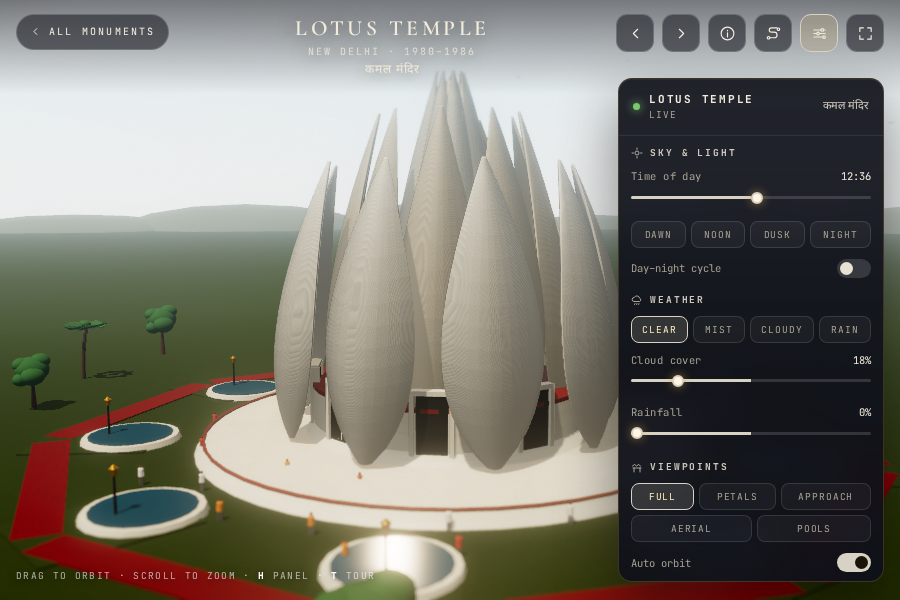
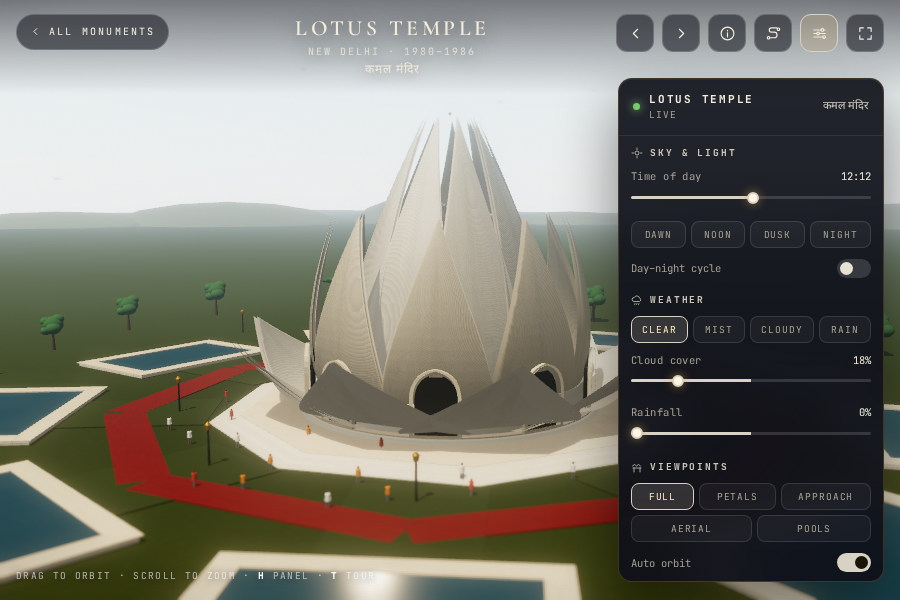
Lotus: the entrance leaves are canopies, not scythes
The outer ring was nine narrow blades splaying over the plinth like claws. In
the building they are wide shallow canopies that arch out from the base and
form the nine entrance portals.

Widened from 6.6 to 9.6 half-width, pulled in from a 33.9 m reach to 26, raised
from 7.8 to 9.4 m and given a much flatter keel (0.55 against 1.3). The bud
above keeps the deeper keel, so the inner leaves still read as folded shells.

The building now reads as a lotus with a canopy base and a closed bud. What is
still wrong: the undersides of the canopies read grey because the shell is
double-sided and the back face is in shadow, and the pools sit as slabs on the
grass rather than at the plinth edge.

diff --git a/monuments/lotus-temple.html b/monuments/lotus-temple.html
@@ -8,8 +8,8 @@
 <meta name="theme-color" content="#d8d2c4">
 <meta name="author" content="Dr Sohil Momin">
 <link rel="icon" href="../assets/img/favicon.svg" type="image/svg+xml">
-<link rel="stylesheet" href="../assets/css/fonts.css?v=85c1bec81e">
-<link rel="stylesheet" href="../assets/css/monument.css?v=85c1bec81e">
+<link rel="stylesheet" href="../assets/css/fonts.css?v=905d8e313b">
+<link rel="stylesheet" href="../assets/css/monument.css?v=905d8e313b">
 <meta property="og:type" content="website">
 <meta property="og:title" content="Lotus Temple — 3D miniature · INDIA">
 <meta property="og:description" content="Twenty-seven marble petals closed around a silent hall: the Bahá’í House of Worship, open to every faith.">
@@ -31,11 +31,11 @@
 <div id="app"></div>
 <noscript><div class="noscript">This page renders Lotus Temple as a live 3D model and needs JavaScript and WebGL. You can still read about the monument on <a href="https://en.wikipedia.org/wiki/Lotus_Temple">Wikipedia</a>.</div></noscript>
 
-<script src="../assets/js/index-data.js?v=85c1bec81e"></script>
+<script src="../assets/js/index-data.js?v=905d8e313b"></script>
 <script>window.MONUMENT_DATA = {"name": "Lotus Temple", "deva": "कमल मंदिर", "place": "New Delhi", "state": "Delhi", "era": "Bahá’í · 1980–1986", "period": "1980–1986", "style": "Expressionist, lotus form", "unesco": "—", "wikipedia": "https://en.wikipedia.org/wiki/Lotus_Temple", "history": ["The Lotus Temple is a Bahá’í House of Worship on the eastern edge of New Delhi, completed in 1986. It was designed by the Iranian-Canadian architect Fariborz Sahba, who shaped the building as a lotus of twenty-seven marble petals: nine in the outer ring, nine in the middle and nine closing over the hall.", "The petals are clad in white marble and rise from a plinth set in 26 acres of gardens, with nine pools and nine paths leading in. The hall beneath them seats about 1,300 people and has no images, no altar and no pulpit: Bahá’í houses of worship are open to every faith and every person, and the only sound inside is the reading of scriptures.", "It draws millions of visitors a year and has won a long list of architectural awards. At dusk the petals are lit from below, and the whole building reads as a flower opening over the gardens."], "facts": [{"k": "Completed", "v": "1986"}, {"k": "Architect", "v": "Fariborz Sahba"}, {"k": "Petals", "v": "27, in three rings"}, {"k": "Height", "v": "34.3 m"}, {"k": "Hall capacity", "v": "About 1,300"}, {"k": "Grounds", "v": "26 acres of gardens"}], "links": [{"label": "Wikipedia", "href": "https://en.wikipedia.org/wiki/Lotus_Temple"}, {"label": "Bahá’í Houses of Worship", "href": "https://www.bahai.org/action/devotional-life/houses-worship"}], "image": {"file": "LotusDelhi.jpg", "artist": "Vandelizer", "license": "CC BY 2.0", "licenseUrl": "https://creativecommons.org/licenses/by/2.0", "page": "https://commons.wikimedia.org/wiki/File:LotusDelhi.jpg", "src": "assets/img/lotus-temple.jpg"}};</script>
 <script type="module">
-  import { boot } from '../assets/js/monument-engine.js?v=85c1bec81e';
-  import monument from '../assets/js/monuments/lotus-temple.js?v=85c1bec81e';
+  import { boot } from '../assets/js/monument-engine.js?v=905d8e313b';
+  import monument from '../assets/js/monuments/lotus-temple.js?v=905d8e313b';
   boot(monument);
 </script>
 </body>

diff --git a/assets/js/monuments/lotus-temple.js b/assets/js/monuments/lotus-temple.js
@@ -163,7 +163,7 @@ export default {
        outer leaves 22.5 m, turning back in;
        inner leaves 33.6 m, closing over the hall. */
     const RINGS = [
-      { H: 7.8, R0: 10.4, Rc: 23.0, Rtip: 33.9, W: 6.6, cup: 1.3, thick: 0.42, yPow: 2.25, rot: 0, mat: MARBLE },
+      { H: 9.4, R0: 11.0, Rc: 19.5, Rtip: 26.0, W: 9.6, cup: 0.55, thick: 0.5, yPow: 1.75, rot: 0, mat: MARBLE },
       { H: 22.5, R0: 12.0, Rc: 19.2, Rtip: 13.6, W: 5.7, cup: 0.8, thick: 0.42, yPow: 1.45, rot: Math.PI / 9, mat: MARBLE2 },
       { H: 33.6, R0: 10.2, Rc: 15.2, Rtip: 3.2, W: 5.5, cup: 0.7, thick: 0.38, yPow: 1.55, rot: 0, mat: MARBLE }
     ];
